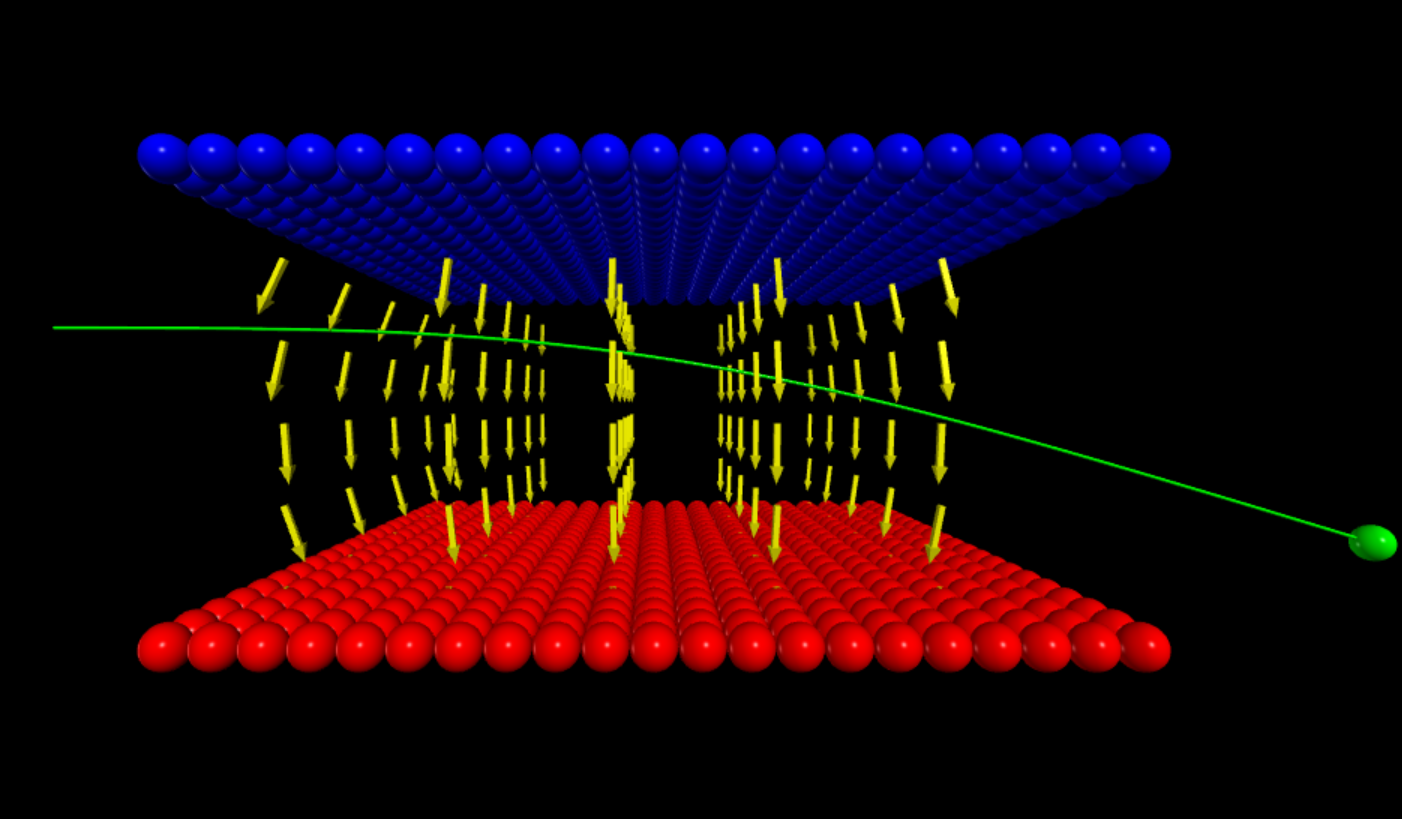
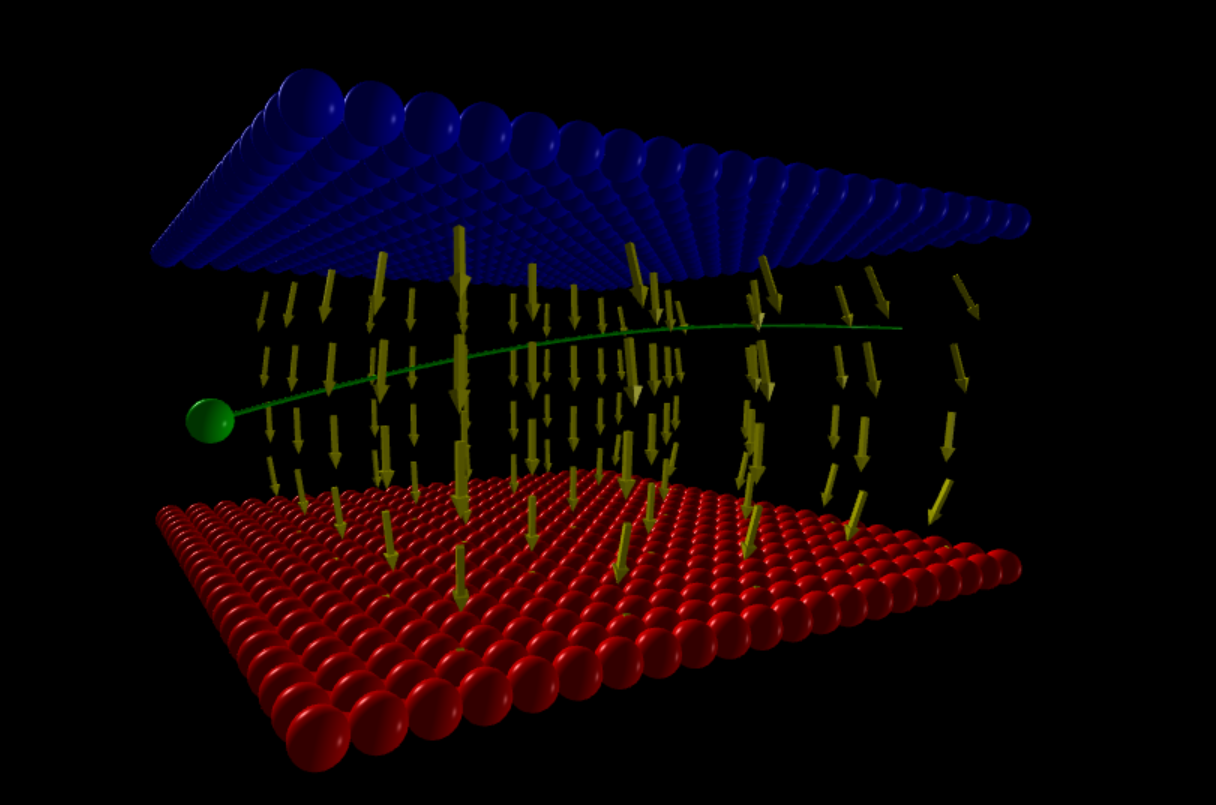
Introducing scenes

diff --git a/src/demos/harmonic_oscillator.py b/src/demos/harmonic_oscillator.py
@@ -1,22 +1,41 @@
-from vpython import vector, rate, box, graph, gcurve, color, sphere, helix, mag, hat
+from vpython import vector, rate, graph, gcurve, color, button, scene, canvas
 from toolbox.ball import Ball
 from toolbox.spring import Spring
 
-position_plot = graph(title="Ball on spring", xtitle="Time", ytitle="Amplitude", width=400, height=250)
+running = False
+
+def set_scene():
+    global scene
+    scene = canvas(width=500, height=300, align='left')
+    b1 = button(text="Run", bind=Run, background=color.cyan)
+    position_plot = graph(title="", xtitle="Time", ytitle="Amplitude")
+    # scene.camera.pos = vector(150, 75, 120)
+    # scene.camera.axis = vector(-115, -150, -190)
+
+def Run(r):
+    global running
+    running = not running
+    r.text = "Pause" if running else "Run"
+
+set_scene()
+
 curve_left = gcurve(color=color.blue)
 curve_right = gcurve(color=color.red)
 
-left_ball  = Ball(mass=1.0, position=vector(-0.75, 0, 0), radius=0.1, color=color.red)
-right_ball = Ball(mass=1.0, position=vector( 0.75, 0, 0), radius=0.1, color=color.blue)
+left_ball  = Ball(mass=1.0, position=vector(-150, 0, 0), radius=30, color=color.red)
+right_ball = Ball(mass=1.0, position=vector( 150, 0, 0), radius=30, color=color.blue)
 distance = left_ball.distance_to(right_ball)
-spring = Spring(position=-distance / 2, axis=distance, spring_constant=1.0, equilibrium_size=1.0, radius=0.05)
+spring = Spring(position=-distance / 2, axis=distance, spring_constant=1.0, equilibrium_size=200.0, radius=20, thickness=3)
 
 dt = 0.1
-for t in range(0, 200):
-  rate(2/dt)
-  right_ball.move(spring.force, dt)
-  left_ball.move(-spring.force, dt)
-  distance = left_ball.distance_to(right_ball)
-  spring.update(distance, -distance / 2)
-  curve_left.plot(t * dt, left_ball.position.x)
-  curve_right.plot(t * dt, right_ball.position.x)
+t = 0
+while True:
+  if running:
+      rate(2/dt)
+      right_ball.move(spring.force, dt)
+      left_ball.move(-spring.force, dt)
+      distance = left_ball.distance_to(right_ball)
+      spring.update(distance, -distance / 2)
+      curve_left.plot(t * dt, left_ball.position.x)
+      curve_right.plot(t * dt, right_ball.position.x)
+      t += dt

diff --git a/src/demos/moving_charge.py b/src/demos/moving_charge.py
@@ -1,26 +1,30 @@
 #
 # Original: https://github.com/Physics-Morris/Physics-Vpython/blob/master/8_Charge_Motion.py
 #
-from vpython import vec, color, rate, canvas
+from vpython import vec, color, rate, canvas, button
 from toolbox.capacitor import Capacitor
 from toolbox.charge import Charge, ec     
 
-def main():
-    # create scene
-    scene = canvas(width=1000, height=600, align='left', range=3E-13)
+
+running = False
+scene = canvas(width=1000, height=600, align='left', range=3E-13)
+
+def start():
+    dt = 0.01
+    moving_charge = Charge(position=vec(-4E-13, 5E-14, 0), velocity=vec(1.5E-13, 0, 0), radius=1.2E-14, coulomb=5E-42*ec, colour=color.green, make_trail=True)
     capacitor = Capacitor(pos=vec(0, 1E-13, 0), size=vec(4E-13, 4E-16, 4E-13))
     capacitor.show_field(x_range=range(-18, 18, 8), y_range=range(-9, 9, 4), z_range=range(-18, 18, 8))
-    moving_charge = Charge(position=vec(-4E-13, 5E-14, 0), velocity=vec(1.5E-13, 0, 0), radius=1.2E-14, coulomb=5E-42*ec, colour=color.green, make_trail=True)
-
-    # simulation
-    dt = 0.01  # update time interval
     for t in range(0, 600):
-        rate(1/dt)
+        rate(2/dt)
         coulomb_force = moving_charge.coulomb_force(capacitor.field_at(moving_charge.position))
         moving_charge.update(coulomb_force, dt)
+    moving_charge.delete()
 
+b1 = button(text="Restart", bind=start, background=color.cyan)
+
+def main():
+    start()
     while True:
         pass
-
 
 main()

diff --git a/src/toolbox/charge.py b/src/toolbox/charge.py
@@ -29,6 +29,11 @@ class Charge:
     def radius(self):
         return self._charge.radius
     
+    def delete(self):
+        self._charge.clear_trail()
+        self._charge.visible = False
+        del self._charge
+    
     def coulomb_force(self, electric_field):
         return electric_field * self._charge.coulomb
 
